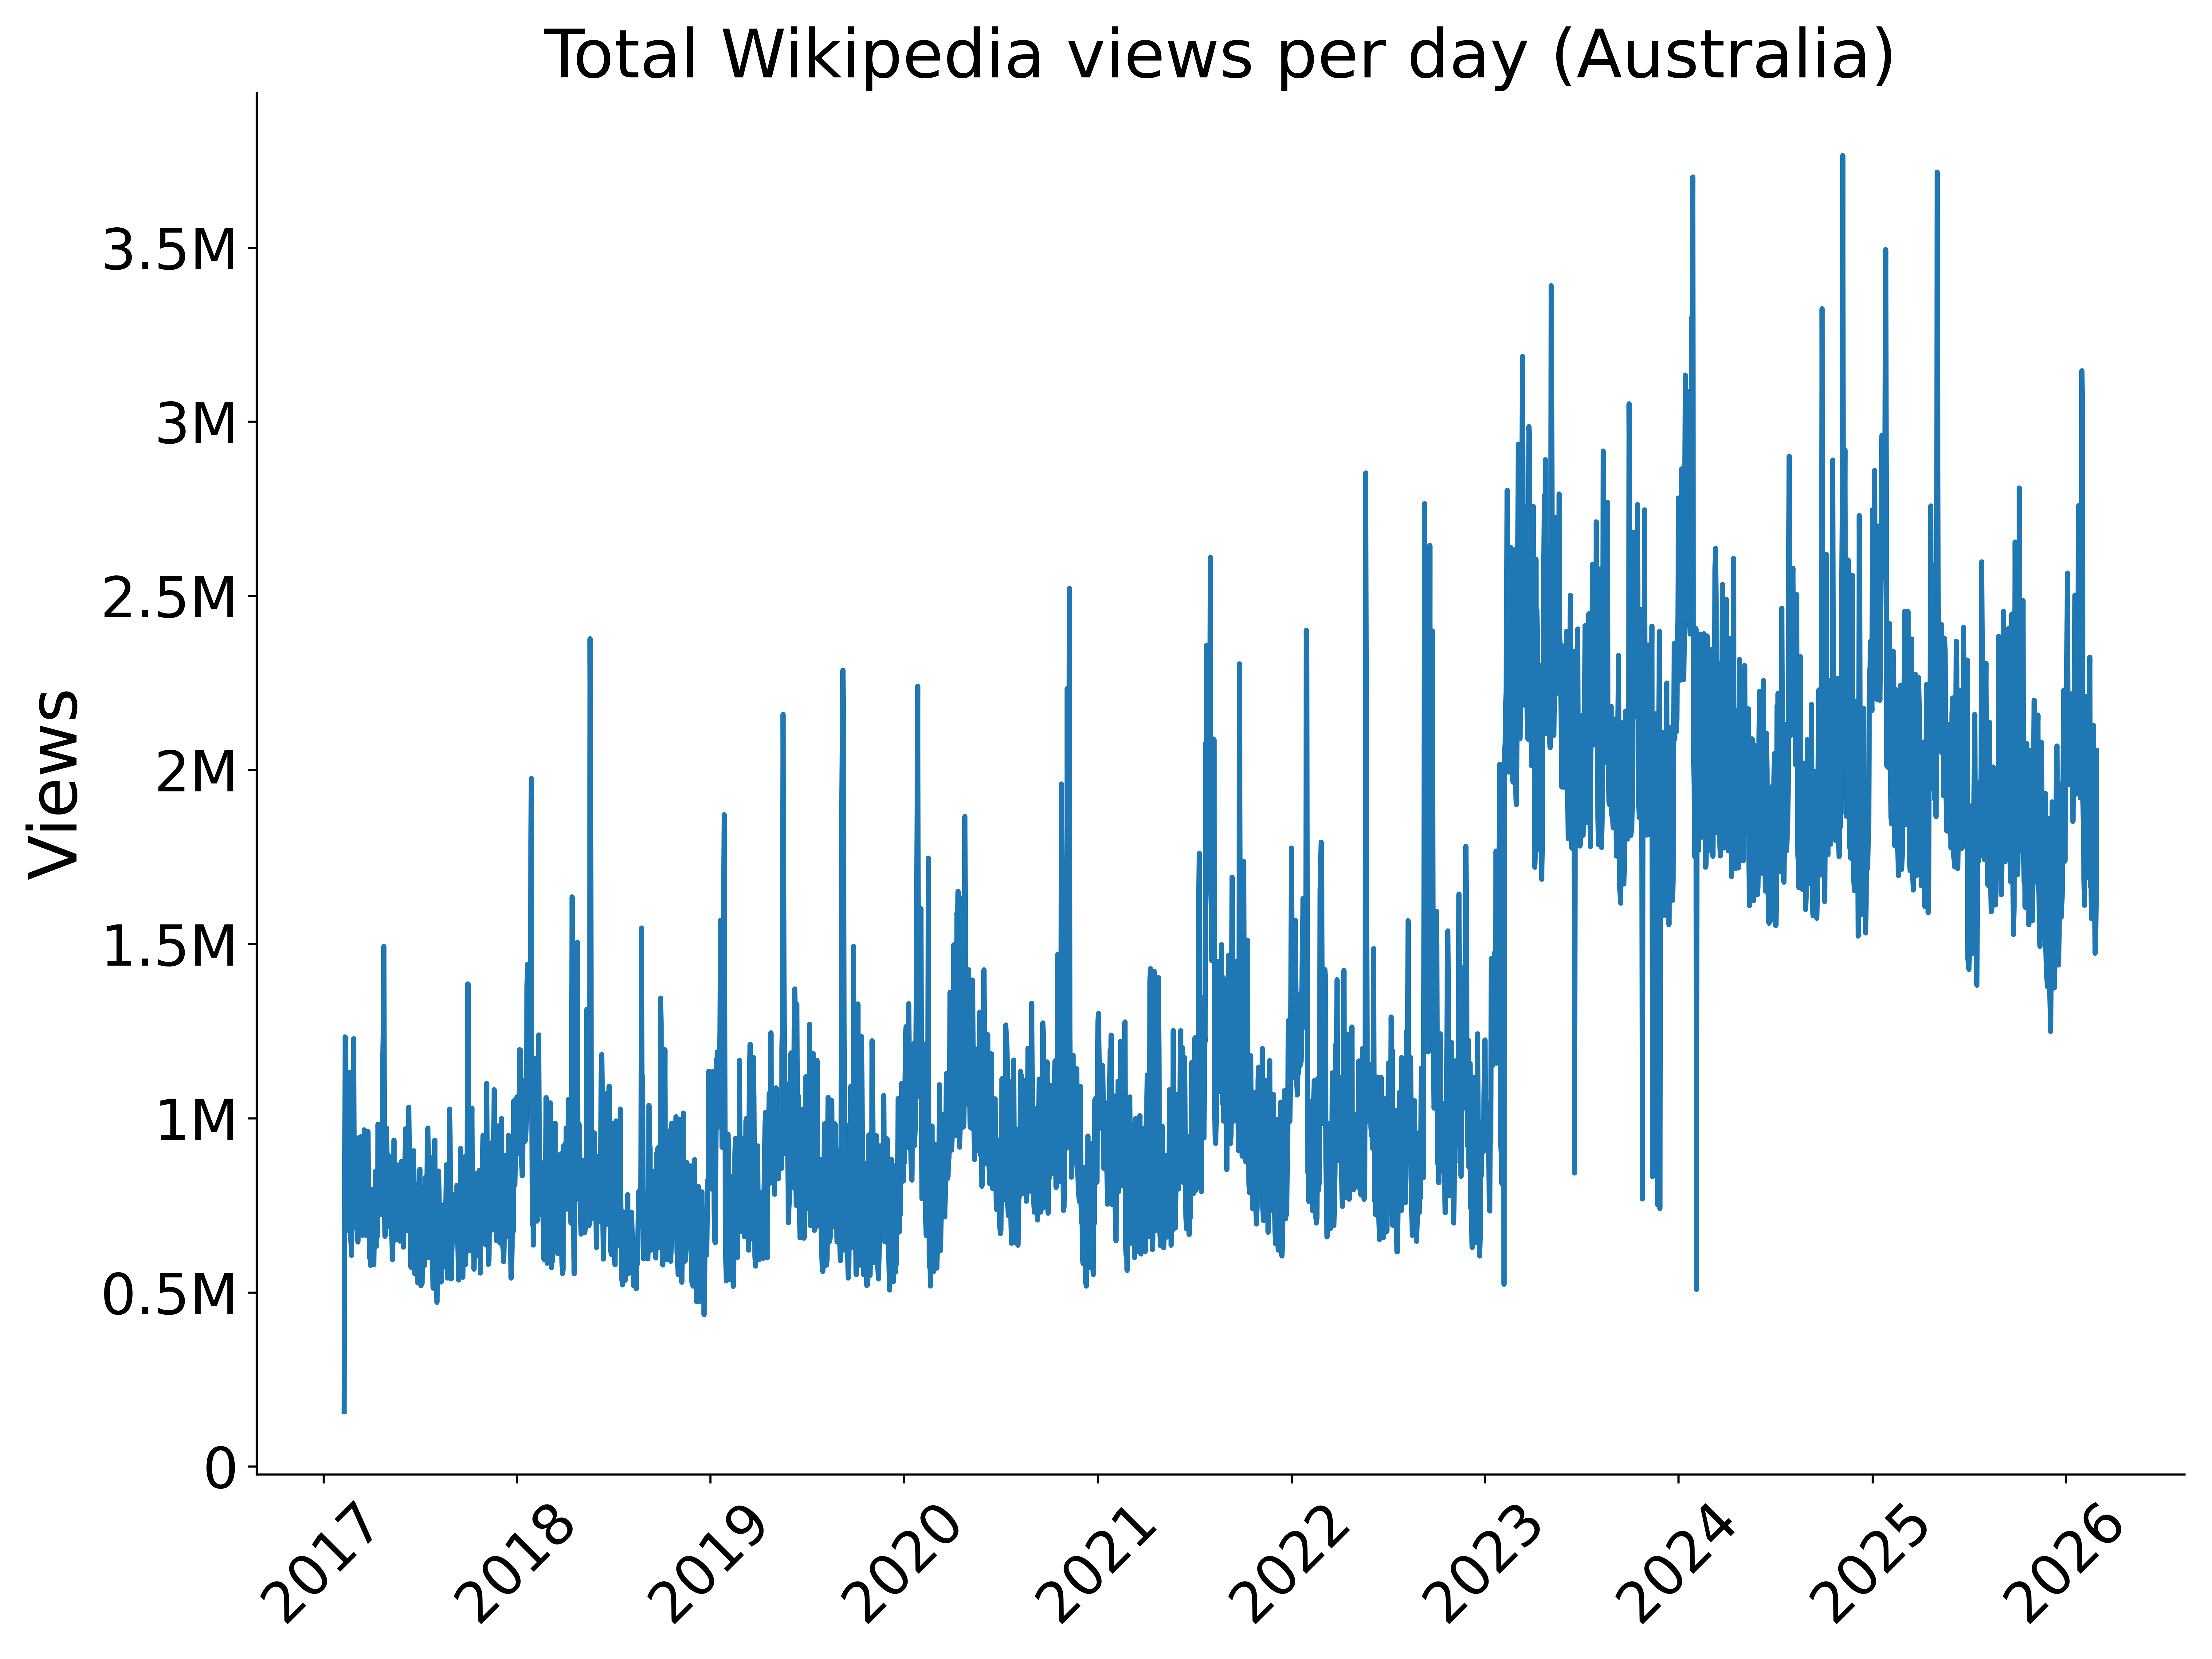
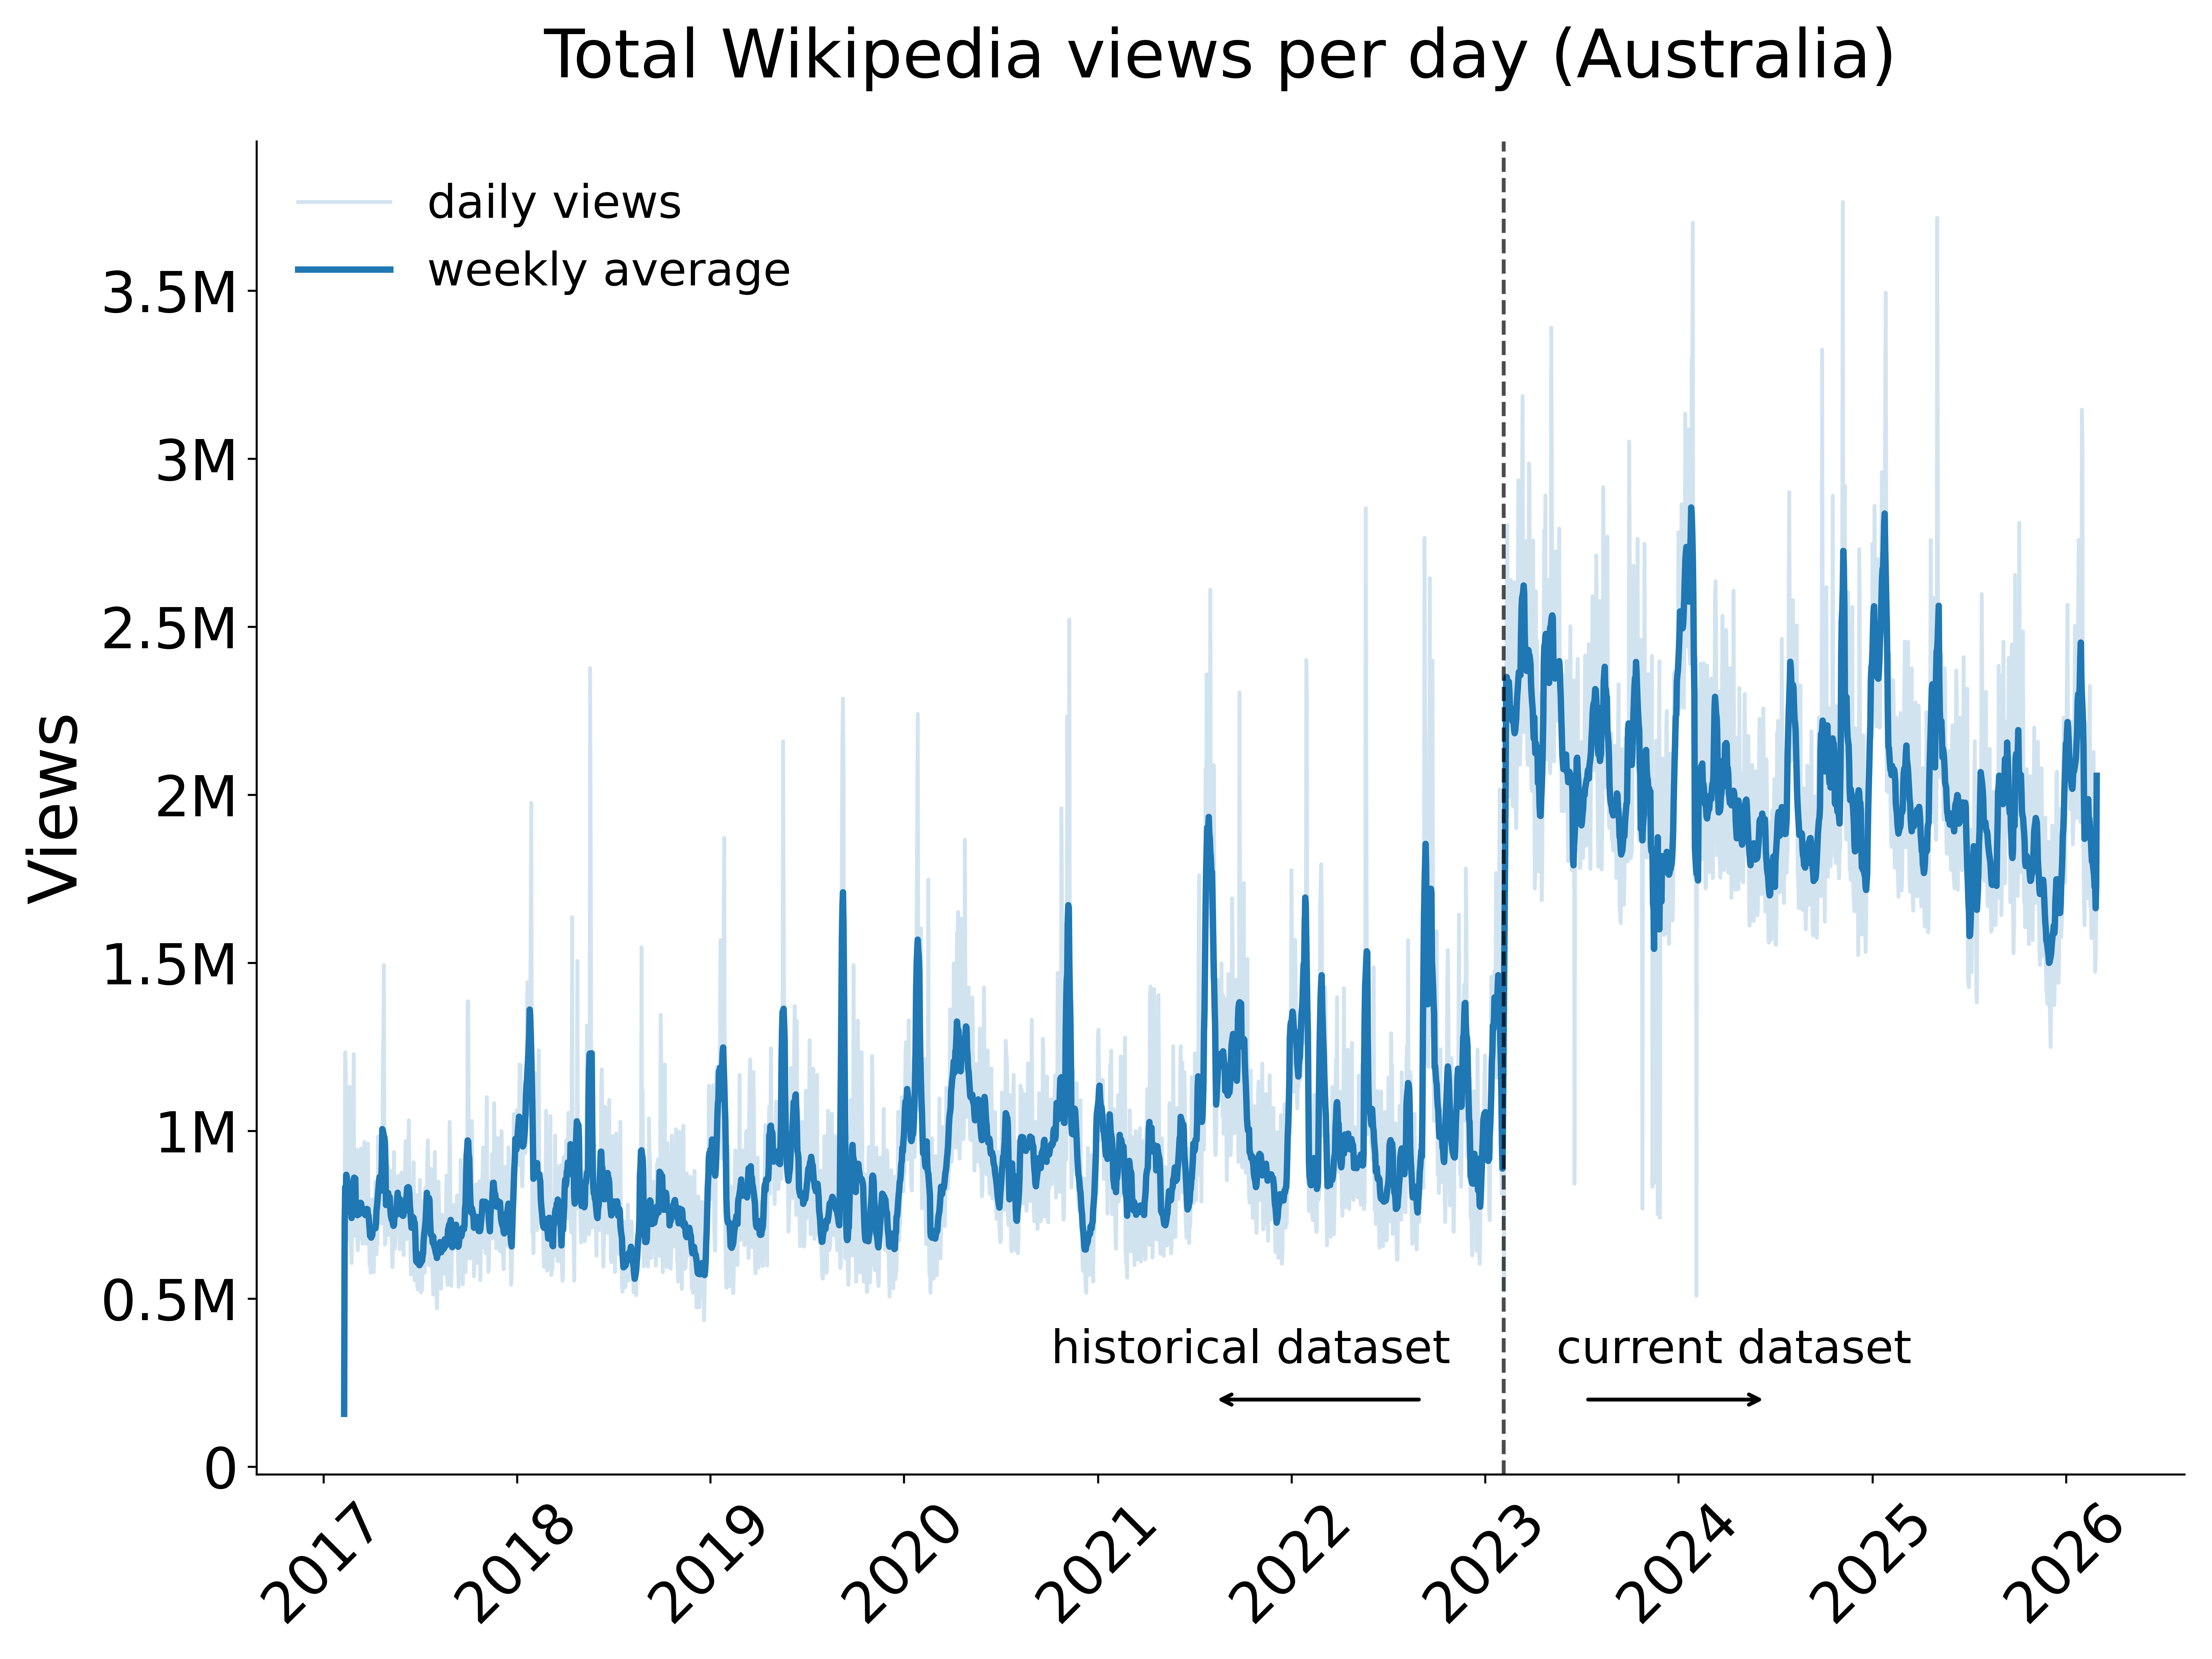
Improve visual presentation of Australian daily views plot
- Replace box annotations with minimalist lowercase labels and directional arrows pointing outwards from the dataset dividing line.
- Plot original daily views with high transparency (alpha=0.2) and overlay a 7-day symmetric sliding-window average line.
- Add a clean, frameless legend in the upper-left corner.
- Add vertical padding (pad=25) to the plot title to prevent overlap with the boundary dashed line.
- Generate and save both PNG and PDF (vector) versions of the figure.

diff --git a/src/wikihistories/australia_daily_views.py b/src/wikihistories/australia_daily_views.py
@@ -140,9 +140,67 @@ def plot_australia_daily_views(
     import matplotlib.pyplot as plt
 
     fig, ax = plt.subplots(figsize=(12, 9))
-    ax.plot(daily_views["Date"].values, daily_views["Views"].values, linewidth=2)
+    
+    # Plot original daily views with high transparency
+    ax.plot(daily_views["Date"].values, daily_views["Views"].values, color="#1f77b4", alpha=0.2, linewidth=1.5, label="daily views")
 
-    ax.set_title("Total Wikipedia views per day (Australia)", size=26)
+    # Compute sliding window averaged views symmetrically (N = 3, which is 7-day window)
+    views = daily_views["Views"].values
+    L = len(views)
+    averaged_views = []
+    N = 3
+    for i in range(L):
+        k = min(i, L - 1 - i, N)
+        window = views[i-k : i+k+1]
+        averaged_views.append(sum(window) / len(window))
+
+    # Plot the averaged curve in full color
+    ax.plot(daily_views["Date"].values, averaged_views, color="#1f77b4", linewidth=2.5, label="weekly average")
+
+    # Vertical dashed line at the transition between the historical and current datasets
+    boundary_date = pd.Timestamp("2023-02-05")
+    ax.axvline(x=boundary_date, color="black", linestyle="--", linewidth=1.5, alpha=0.7)
+
+    # Text label and arrow under the text pointing left (historical dataset)
+    # Aligning the text to the right of boundary_date - 100 days so it grows leftwards
+    ax.text(
+        boundary_date - pd.Timedelta(days=100),
+        280_000,
+        "historical dataset",
+        ha="right",
+        va="bottom",
+        size=18,
+        color="black",
+    )
+    ax.annotate(
+        "",
+        xy=(boundary_date - pd.Timedelta(days=550), 200_000),
+        xytext=(boundary_date - pd.Timedelta(days=150), 200_000),
+        arrowprops=dict(arrowstyle="->", color="black", lw=1.5),
+    )
+
+    # Text label and arrow under the text pointing right (current dataset)
+    # Aligning the text to the left of boundary_date + 100 days so it grows rightwards
+    ax.text(
+        boundary_date + pd.Timedelta(days=100),
+        280_000,
+        "current dataset",
+        ha="left",
+        va="bottom",
+        size=18,
+        color="black",
+    )
+    ax.annotate(
+        "",
+        xy=(boundary_date + pd.Timedelta(days=500), 200_000),
+        xytext=(boundary_date + pd.Timedelta(days=150), 200_000),
+        arrowprops=dict(arrowstyle="->", color="black", lw=1.5),
+    )
+
+    # Add a clean legend in the upper left corner with some distance
+    ax.legend(loc="upper left", fontsize=18, frameon=False)
+
+    ax.set_title("Total Wikipedia views per day (Australia)", size=26, pad=25)
     ax.set_ylabel("Views", size=26)
     ax.yaxis.set_major_formatter(plt.FuncFormatter(lambda x, _: f"{x:,.0f}"))
     ax.xaxis.set_major_locator(mdates.YearLocator())
@@ -159,6 +217,11 @@ def plot_australia_daily_views(
 
     output_png.parent.mkdir(parents=True, exist_ok=True)
     plt.savefig(output_png, dpi=600)
+    
+    # Save the PDF version as well
+    output_pdf = output_png.with_suffix(".pdf")
+    plt.savefig(output_pdf)
+    
     plt.close(fig)
     return output_png
 

diff --git a/README.md b/README.md
@@ -2,7 +2,7 @@
 
 This project examines how people in Australia use Wikipedia to understand unexpected events, with a particular focus on natural disasters. It is part of the broader [wikihistories](https://wikihistories.net/) project led by Prof. [Heather Ford](https://profiles.uts.edu.au/Heather.Ford) and supported by ARC Discovery Projects Grant №220100662.
 
-The data analysis for this sub-project was performed by Dr [Ivan Smirnov](https://smirnov.au).
+The data analysis for this sub-project was performed by Dr [Ivan Smirnov](smirnov.au).
 
 Instructions for reproducing the findings and data visualizations are available in [reproduction document](reproduction.md).
 